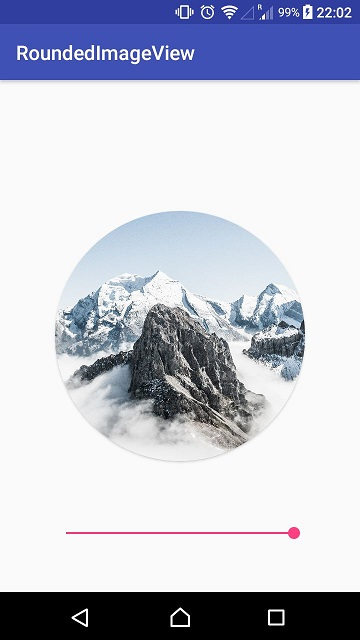
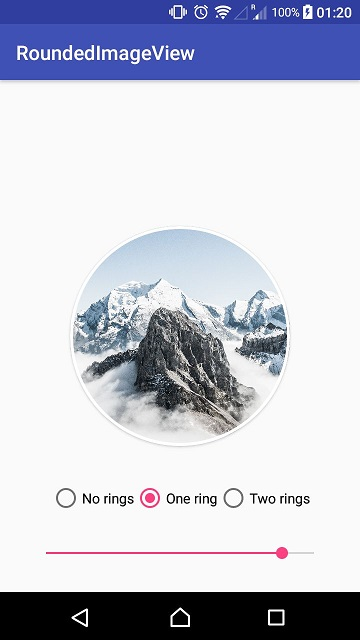
Added rings for RoundedImageView

diff --git a/app/src/main/java/ca/sharipov/sergey/roundedimageview/MainActivity.java b/app/src/main/java/ca/sharipov/sergey/roundedimageview/MainActivity.java
@@ -4,12 +4,12 @@ import android.os.Bundle;
 import android.support.v7.app.AppCompatActivity;
 import android.support.v7.widget.CardView;
 import android.view.ViewGroup;
+import android.widget.RadioGroup;
 import android.widget.SeekBar;
 
 public class MainActivity extends AppCompatActivity {
 
     private CardView cardViewForImage;
-    private SeekBar seekBar;
 
     @Override
     protected void onCreate(Bundle savedInstanceState) {
@@ -18,22 +18,45 @@ public class MainActivity extends AppCompatActivity {
 
         //ImageView roundedImageView = findViewById(R.id.rounded_image_view);
         cardViewForImage = findViewById(R.id.card_view_for_image);
-        seekBar = findViewById(R.id.seek_bar);
 
         setupSeekBar();
+
+        setupRadioGroup();
+    }
+
+    private void setupRadioGroup() {
+        RadioGroup radioGroup = findViewById(R.id.radio_group);
+        radioGroup.setOnCheckedChangeListener(new RadioGroup.OnCheckedChangeListener() {
+            @Override
+            public void onCheckedChanged(RadioGroup radioGroup, int i) {
+                switch (radioGroup.getCheckedRadioButtonId()){
+                    case R.id.radio_btn_no_rings:
+                        cardViewForImage.setForeground(null);
+                        break;
+                    case R.id.radio_btn_one_ring:
+                        cardViewForImage.setForeground(getResources().getDrawable(R.drawable.one_ring));
+                        break;
+                    case R.id.radio_btn_two_rings:
+                        cardViewForImage.setForeground(getResources().getDrawable(R.drawable.two_rings));
+                        break;
+                }
+            }
+        });
     }
 
     private void setupSeekBar() {
+        SeekBar seekBar = findViewById(R.id.seek_bar);
+
         seekBar.setMax(100);
 
         int progress = 50;
         seekBar.setProgress(progress);
-        setRoundedImageViewSize(progress*5);
+        setRoundedImageViewSize(progress * 5);
 
         seekBar.setOnSeekBarChangeListener(new SeekBar.OnSeekBarChangeListener() {
             @Override
             public void onProgressChanged(SeekBar seekBar, int i, boolean b) {
-                setRoundedImageViewSize(i*5);
+                setRoundedImageViewSize(i * 5);
             }
 
             @Override
